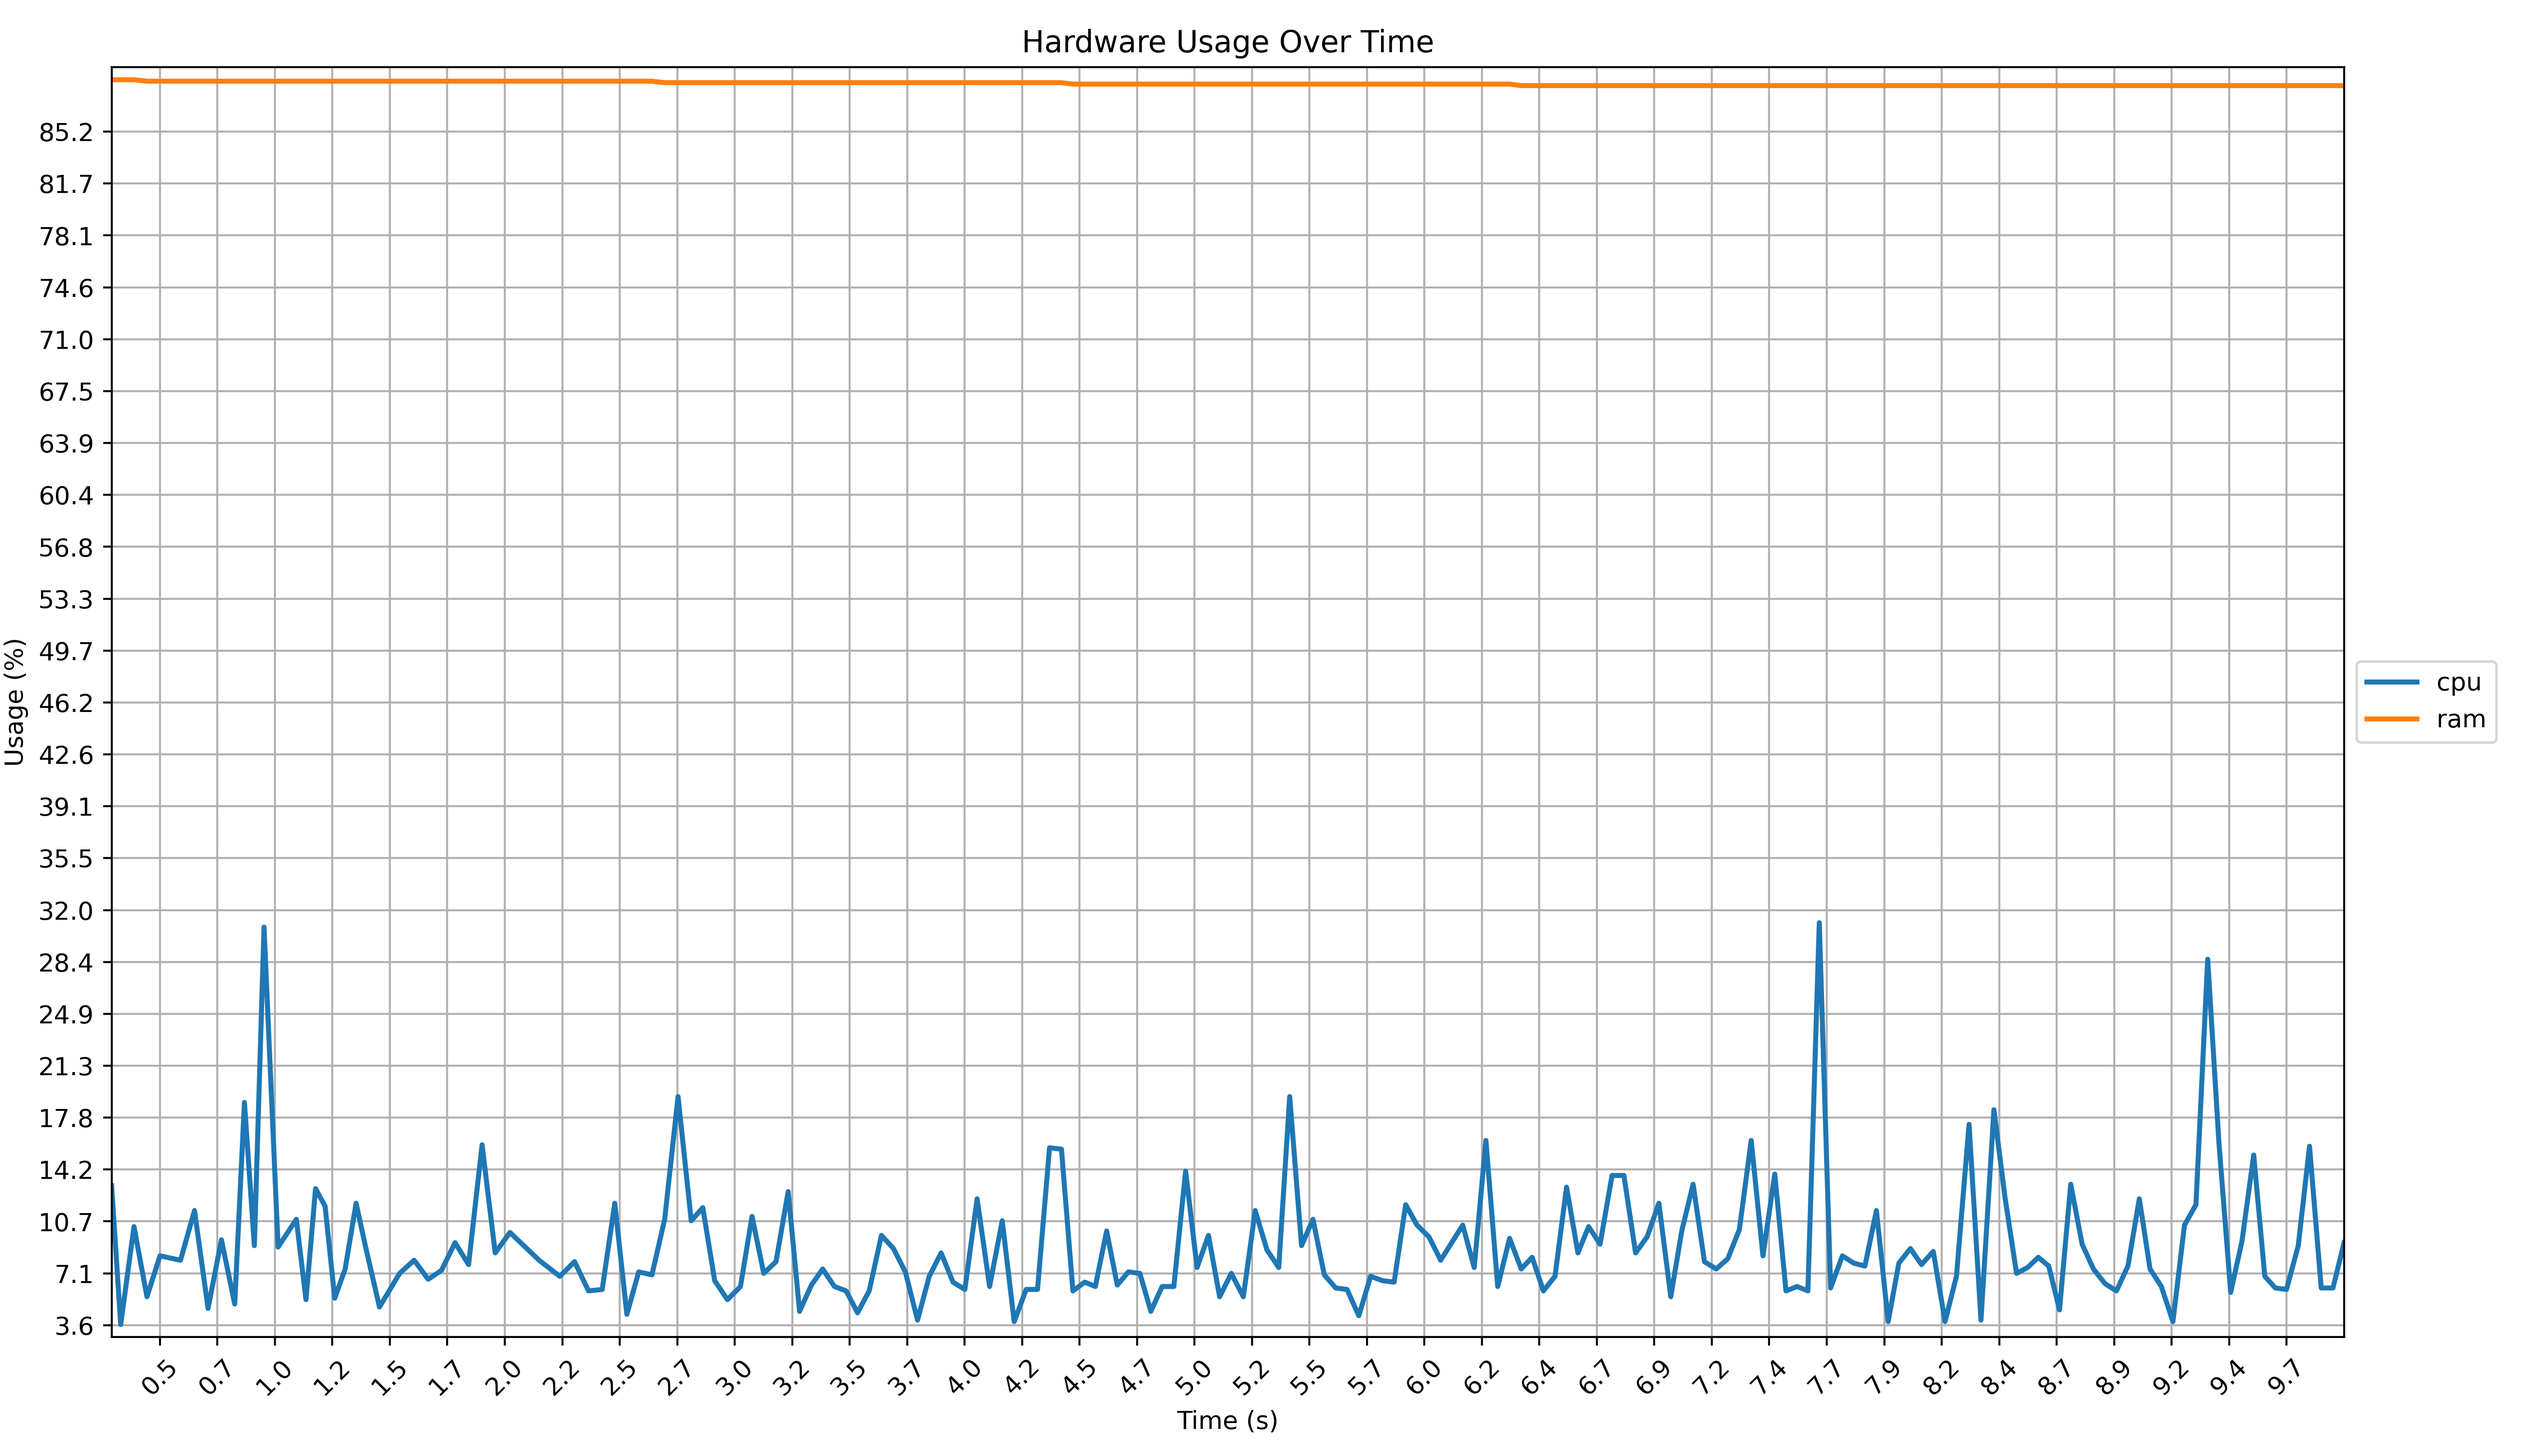
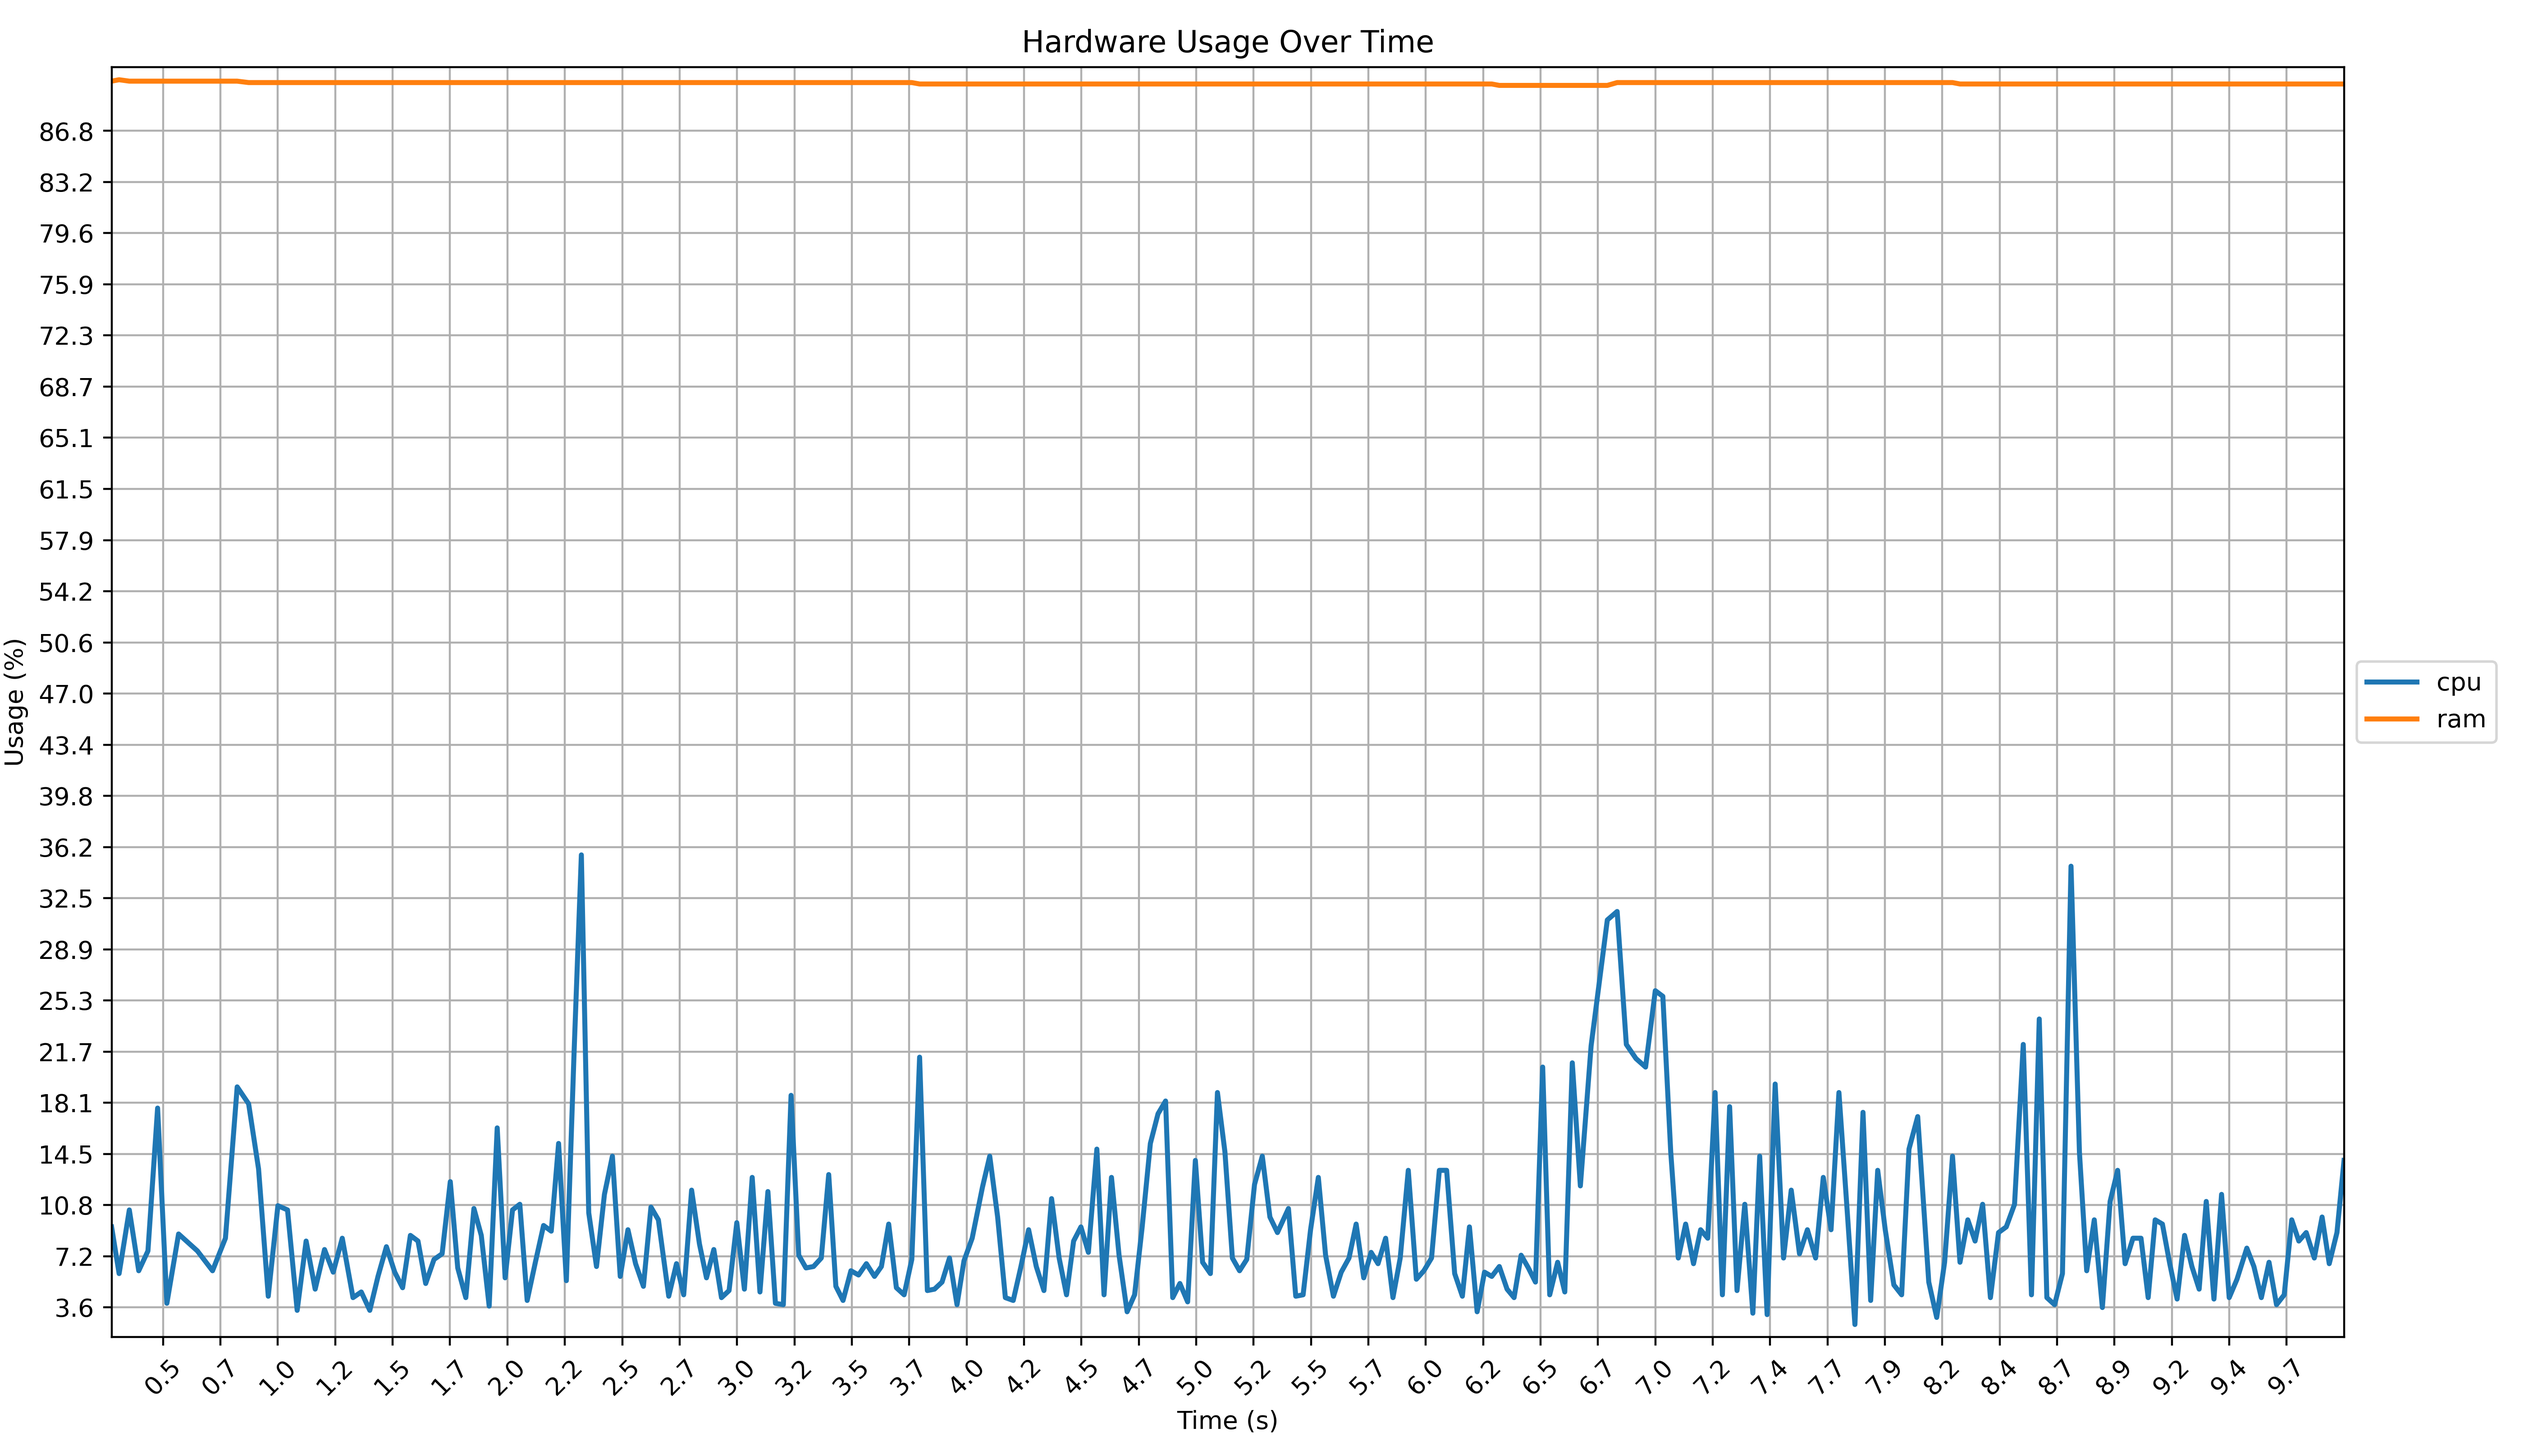
Update physics benchmark report

diff --git a/benchmarks/physics/report.md b/benchmarks/physics/report.md
@@ -1,6 +1,6 @@
 # Physics Benchmark Report
 
-This benchmark ran for 9.92 seconds and captured 187 data points.
+This benchmark ran for 9.93 seconds and captured 280 data points.
 
 ### Benchmark Information
 
@@ -8,17 +8,17 @@ This benchmark ran for 9.92 seconds and captured 187 data points.
 
 ### Average System Response Times
 
-Average FPS: 21.13
+Average FPS: 30.01
 
 - timing: 0.01 ms
 - input: 0.02 ms
-- transform: 11.70 ms
-- ui: 0.01 ms
-- collision: 19.72 ms
-- physics: 17.93 ms
+- transform: 11.01 ms
+- collision: 5.33 ms
+- physics: 15.86 ms
+- ui: 0.00 ms
 - animation: 0.02 ms
-- total: 53.20 ms
-- render: 3.81 ms
+- total: 35.77 ms
+- render: 3.53 ms
 - audio: 0.01 ms
 
 ### System Specifications
